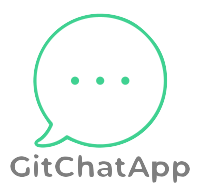
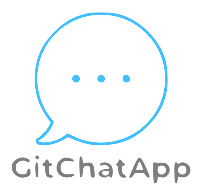
Update color scheme

diff --git a/pages/_error.js b/pages/_error.js
@@ -41,7 +41,7 @@ class Error extends React.Component {
             margin: 0 auto;
           }
           a {
-            color: rgb(65, 210, 145);
+            color: rgb(70, 190, 255);
             font-size: 20px;
           }
         `}</style>
@@ -62,65 +62,3 @@ class Error extends React.Component {
 }
 
 export default Error
-
-/*
-class Error extends React.Component {
-  static getInitialProps({ req, query }) {
-    return {
-      code: query.code,
-      message: query.message
-    }
-  }
-
-  render() {
-    return (
-      <div>
-        <Head>
-          <title>GitChatApp</title>
-          <meta name="viewport" content="width=device-width, initial-scale=1" />
-          <link rel="icon" type="image/png" href="static/favicon.png" />
-        </Head>
-        <h3>{this.props.code} {this.props.message}</h3>
-        <img src="static/gitchatapp.png" alt="Git Chat App" />
-        <Link href="/">
-          <a>Back To Home Page</a>
-        </Link>
-        <style jsx>{`
-          div {
-            margin-top: 50px;
-            text-align: center;
-          }
-          h3 {
-            color: rgb(126, 126, 126);
-            display: block;
-            font-size: 24px;
-            margin-bottom: 22px;
-          }
-          img {
-            display: block;
-            margin: 0 auto;
-          }
-          a {
-            color: rgb(65, 210, 145);
-            font-size: 20px;
-          }
-        `}</style>
-        <style global jsx>{`
-          * {
-            box-sizing: border-box;
-            margin: 0;
-            padding: 0;
-          }
-          body {
-            background-color: rgb(231, 234, 237);
-            font-family: sans-serif;
-          }
-        `}</style>
-      </div>
-    )    
-  }
-}
-
-export default Error
-
-*/

diff --git a/pages/chatroom.js b/pages/chatroom.js
@@ -99,7 +99,7 @@ class Chatroom extends React.Component {
         </form>
         <style jsx>{`
           .chatroom {
-            background-color: rgb(65, 210, 145);
+            background-color: rgb(70, 190, 255);
             border-radius: 5px;
             display: grid;
             margin: 20px auto;
@@ -162,7 +162,7 @@ class Chatroom extends React.Component {
             padding: 10px;
           }
           .chatroom .border {
-            border-right: 10px solid rgb(65, 210, 145);
+            border-right: 10px solid rgb(70, 190, 255);
           }
           .chatroom .messages {
             list-style-type: none;

diff --git a/pages/error.js b/pages/error.js
@@ -39,7 +39,7 @@ class Error extends React.Component {
             margin: 0 auto;
           }
           a {
-            color: rgb(65, 210, 145);
+            color: rgb(70, 190, 255);
             font-size: 20px;
           }
         `}</style>

diff --git a/pages/index.js b/pages/index.js
@@ -25,7 +25,7 @@ const Index = () => (
         margin: 0 auto;
       }
       a {
-        color: rgb(65, 210, 145);
+        color: rgb(70, 190, 255);
         font-size: 20px;
       }
     `}</style>
